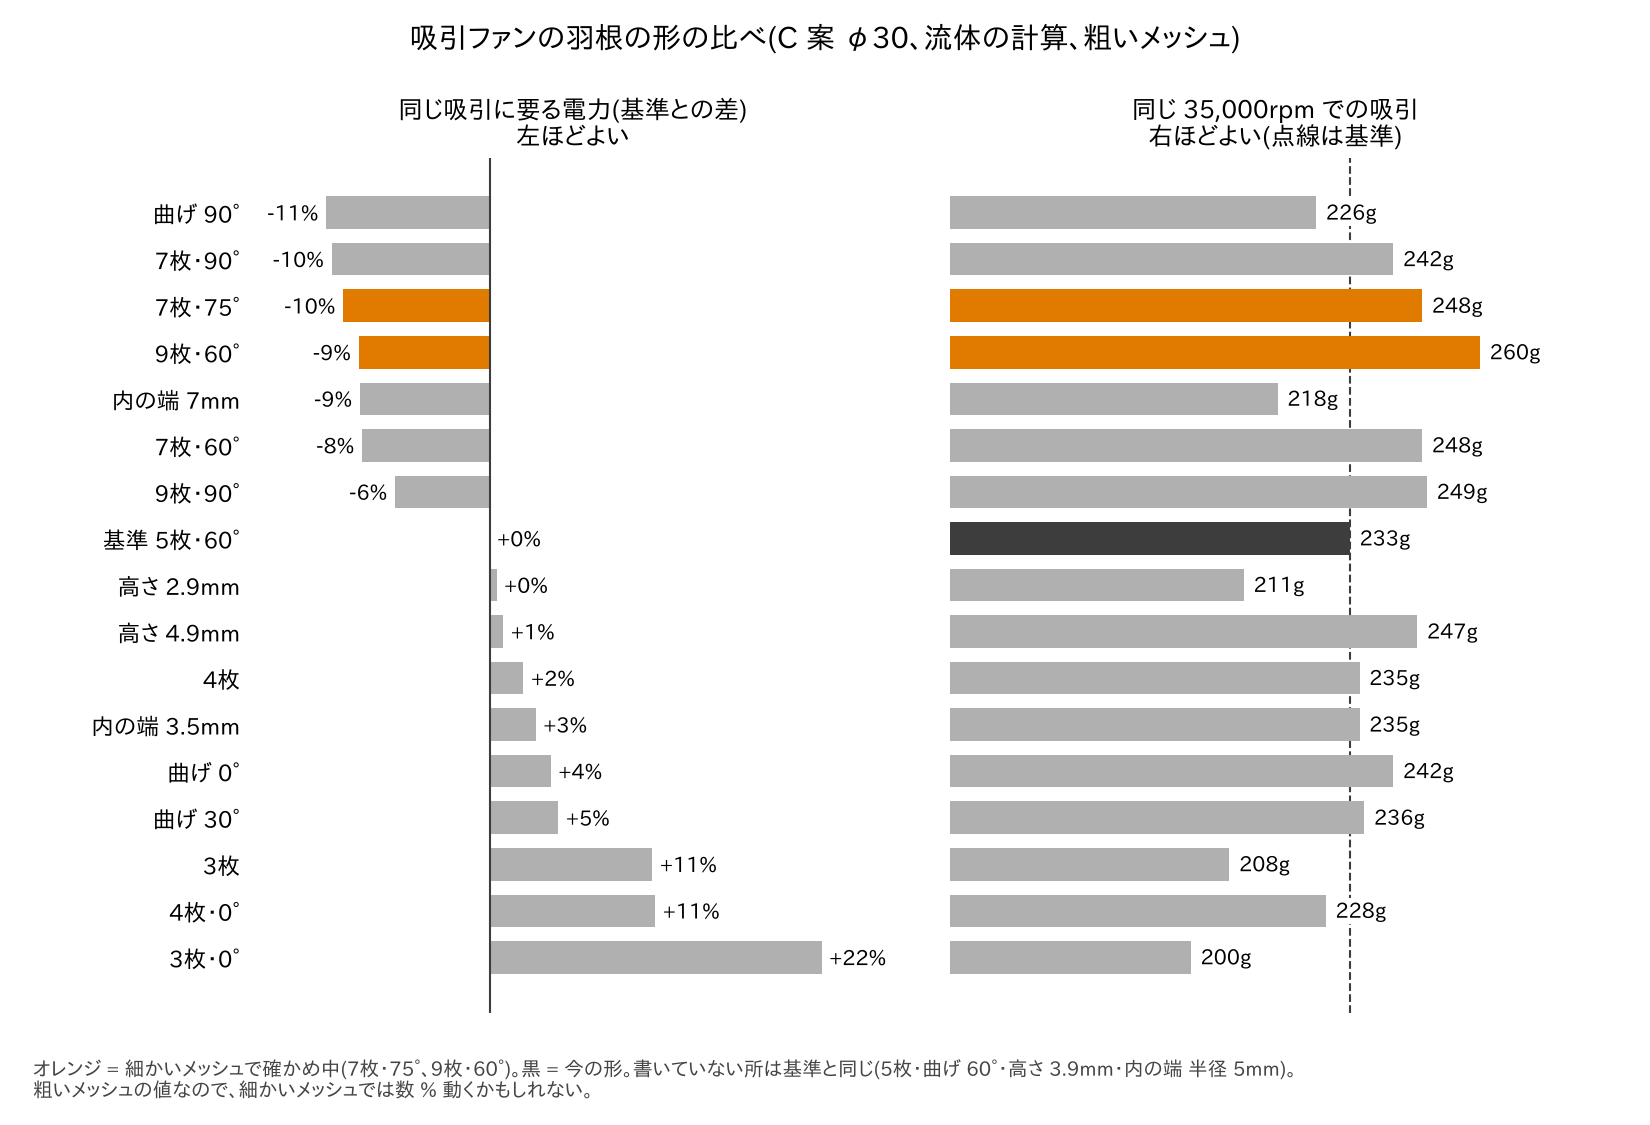
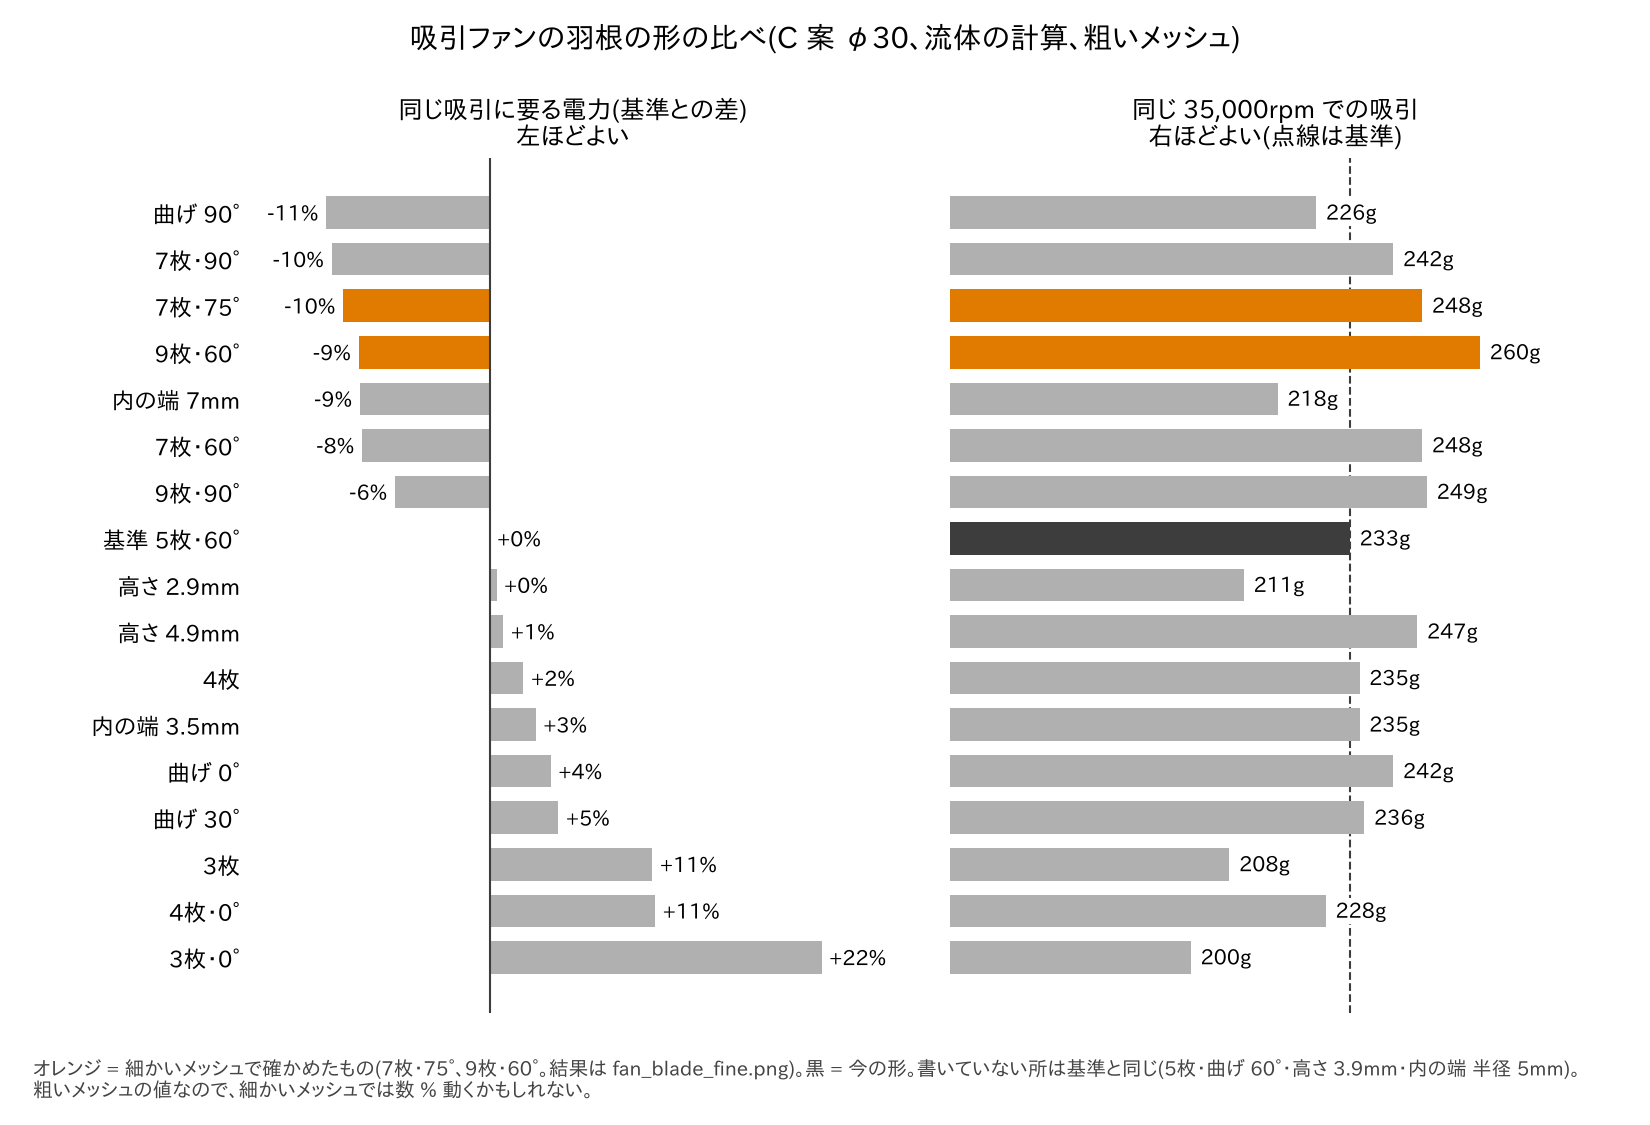
ファンの流体計算: 細かいメッシュで確かめた羽根の形の図(fan_blade_fine.png)を追加
Claude-Session: https://claude.ai/code/session_01H2ZvppzKfBcNG4W11i4psV

Changed region(s): [[0.1855, 0.9333, 0.9582, 0.9644]]

diff --git a/docs/calc/fan_cfd/blade_fine_fig.py b/docs/calc/fan_cfd/blade_fine_fig.py
@@ -1,0 +1,121 @@
+"""羽根の形の比べのうち、細かいメッシュで確かめた 3 つ(C 案 φ30、35,000rpm)を、上から見た羽根の形と棒グラフで見せる(2026-11-25)。
+使い方(リポジトリの一番上から): python3 docs/calc/fan_cfd/blade_fine_fig.py
+  → docs/img/tire24/fan_blade_fine.png
+数値は post.py の出力(細かいメッシュ、くり返し 1,500 回)を書き写したもの。
+羽の形は make_case.py の blade() と同じ式(内の端から外へ、回る向きと逆へ log で曲がる)で描く"""
+import math
+import os
+import matplotlib
+matplotlib.use('Agg')
+import matplotlib.pyplot as plt
+
+HERE = os.path.dirname(os.path.abspath(__file__))
+OUT = os.path.join(HERE, '..', '..', 'img', 'tire24', 'fan_blade_fine.png')
+
+R_TIP = 15.0          # 羽の先(φ30)
+R_INNER = 5.0         # 羽の内の端
+R_RIM = 15.6          # 回る外の壁の外(厚さ 0.6)
+RING_IN = 16.5        # 止まった輪(ファンの台)
+RING_OUT = 17.5
+R_HOLE = 7.5          # フレームの吸い込みの穴(φ15)
+
+# (名前, 羽の枚数, 曲げ [°], 吸引 [g], 羽根を回す電力 [W])
+CASES = [
+    ('基準(今)\n5枚・曲げ 60°', 5, 60, 254, 3.90),
+    ('7枚・曲げ 75°', 7, 75, 254, 3.54),
+    ('9枚・曲げ 60°', 9, 60, 273, 3.98),
+]
+COLORS = ['#3d3d3d', '#e07b00', '#e07b00']
+
+
+def equal_suction_power(suction_g, power_w):
+    """吸引を基準(254g)にそろえたときの電力 [W]。吸引は回転数の2乗、電力は3乗に比例するとして換算"""
+    base_suction = CASES[0][3]
+    return power_w * (base_suction / suction_g) ** 1.5
+
+
+def draw_impeller(ax, n_blades, sweep_deg):
+    """上から見た羽根(羽・回る外の壁・止まった輪・吸い込みの穴)を描く"""
+    # 止まった輪(灰色の太い輪)
+    ax.add_patch(plt.Circle((0, 0), RING_OUT, color='#d0d0d0'))
+    ax.add_patch(plt.Circle((0, 0), RING_IN, color='white'))
+    # 回る外の壁
+    ax.add_patch(plt.Circle((0, 0), R_RIM, color='#7a9cc6'))
+    ax.add_patch(plt.Circle((0, 0), R_TIP, color='#eef3fa'))
+    # 吸い込みの穴(点線)
+    ax.add_patch(plt.Circle((0, 0), R_HOLE, fill=False, ls='--', color='#888888', lw=1))
+    # 羽
+    for k in range(n_blades):
+        xs = []
+        ys = []
+        for i in range(41):
+            r = R_INNER + (R_TIP - R_INNER) * i / 40
+            th = math.radians(360.0 / n_blades * k) - math.radians(sweep_deg) * math.log(r / R_INNER) / math.log(R_TIP / R_INNER)
+            xs.append(r * math.cos(th))
+            ys.append(r * math.sin(th))
+        ax.plot(xs, ys, color='#1f3b66', lw=2.2, solid_capstyle='butt')
+    # 回る向き(反時計回り)の矢印
+    ax.annotate('', xy=(-12.5, 12.5), xytext=(-2, 17.0),
+                arrowprops=dict(arrowstyle='->', color='#c0392b', lw=1.5, connectionstyle='arc3,rad=0.3'))
+    ax.set_xlim(-19, 19)
+    ax.set_ylim(-19, 19)
+    ax.set_aspect('equal')
+    ax.axis('off')
+
+
+plt.rcParams['font.family'] = 'IPAPGothic'
+fig = plt.figure(figsize=(11, 8))
+
+# 上の段: 3 つの羽根の形
+for i in range(len(CASES)):
+    name, n_blades, sweep_deg, suction_g, power_w = CASES[i]
+    ax = fig.add_axes([0.04 + i * 0.32, 0.47, 0.28, 0.40])
+    draw_impeller(ax, n_blades, sweep_deg)
+    ax.set_title(name, fontsize=13, color=COLORS[i])
+
+# 下の段の左: 同じ吸引にしたときの電力
+names = []
+powers = []
+suctions = []
+for name, n_blades, sweep_deg, suction_g, power_w in CASES:
+    names.append(name.replace('\n', ' '))
+    powers.append(equal_suction_power(suction_g, power_w))
+    suctions.append(suction_g)
+y = [0, 1, 2]
+
+ax1 = fig.add_axes([0.22, 0.08, 0.32, 0.28])
+ax1.barh(y, powers, color=COLORS, height=0.6)
+for i in range(3):
+    diff = (powers[i] / powers[0] - 1) * 100
+    text = f'{powers[i]:.2f}W'
+    if i > 0:
+        text = text + f'({diff:+.0f}%)'
+    ax1.text(powers[i] + 0.05, i, text, va='center', fontsize=11)
+ax1.set_xlim(0, 5.2)
+ax1.set_yticks(y)
+ax1.set_yticklabels(names, fontsize=11)
+ax1.invert_yaxis()
+ax1.set_title('吸引を 254g にそろえたときの電力(短いほどよい)', fontsize=12)
+
+# 下の段の右: 同じ回転数での吸引
+ax2 = fig.add_axes([0.62, 0.08, 0.30, 0.28], sharey=ax1)
+ax2.barh(y, suctions, color=COLORS, height=0.6)
+for i in range(3):
+    ax2.text(suctions[i] + 4, i, f'{suctions[i]}g', va='center', fontsize=11)
+ax2.set_xlim(0, 330)
+ax2.set_title('同じ 35,000rpm での吸引(長いほどよい)', fontsize=12)
+plt.setp(ax2.get_yticklabels(), visible=False)
+
+for ax in (ax1, ax2):
+    ax.set_xticks([])
+    for side in ('top', 'right', 'bottom', 'left'):
+        ax.spines[side].set_visible(False)
+    ax.tick_params(axis='y', length=0)
+
+fig.suptitle('羽根の枚数と曲げ(C 案 φ30、流体の計算、細かいメッシュ)', fontsize=15)
+fig.text(0.02, 0.015,
+         '濃い青 = 羽、薄い青 = 回る外の壁、灰色 = 止まった輪(ファンの台)、点線 = フレームの吸い込みの穴(φ15)、赤い矢印 = 回る向き。'
+         'スカートと床のすき間 0.15mm での計算',
+         fontsize=9, color='#444444')
+fig.savefig(OUT, dpi=150)
+print(OUT)

diff --git a/docs/calc/fan_cfd/blade_screen_fig.py b/docs/calc/fan_cfd/blade_screen_fig.py
@@ -31,7 +31,7 @@ CASES = [
     ('内の端 3.5mm', 235, 3.81),
     ('内の端 7mm', 218, 3.02),
 ]
-CANDIDATES = ['7枚・75°', '9枚・60°']     # 細かいメッシュで確かめているもの
+CANDIDATES = ['7枚・75°', '9枚・60°']     # 細かいメッシュで確かめたもの
 BASE = '基準 5枚・60°'
 
 COLOR_CANDIDATE = '#e07b00'
@@ -106,7 +106,7 @@ for ax in (ax1, ax2):
 
 fig.suptitle('吸引ファンの羽根の形の比べ(C 案 φ30、流体の計算、粗いメッシュ)', fontsize=14)
 fig.text(0.02, 0.025,
-         'オレンジ = 細かいメッシュで確かめ中(7枚・75°、9枚・60°)。黒 = 今の形。'
+         'オレンジ = 細かいメッシュで確かめたもの(7枚・75°、9枚・60°。結果は fan_blade_fine.png)。黒 = 今の形。'
          '書いていない所は基準と同じ(5枚・曲げ 60°・高さ 3.9mm・内の端 半径 5mm)。\n'
          '粗いメッシュの値なので、細かいメッシュでは数 % 動くかもしれない。',
          fontsize=9.5, color='#444444')
